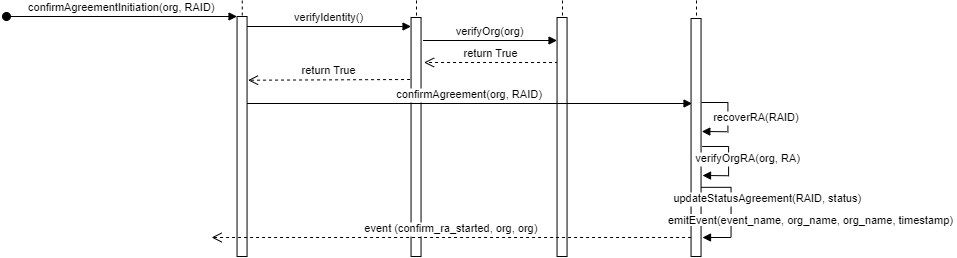
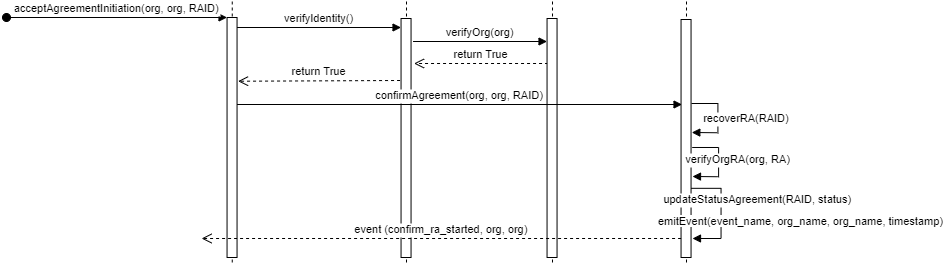
0.08.2021.9

Changed region(s): [[0.0, 0.0, 1.0, 1.0]]

diff --git a/chaincode/documentation/README.md b/chaincode/documentation/README.md
@@ -30,6 +30,9 @@
 <img src="https://github.com/sfl0r3nz05/NLP-DLT/blob/sentencelvl/chaincode/documentation/images/startAgreement2.png">
 
 ### Start Agreement Confirmation
+|Method                    | Event                  | State                 |
+|:------------------------:|:----------------------:|:---------------------:|
+|acceptAgreementInitiation |confirmation_ra_started |confirmation_ra_started|
 - For the roaming agreement drafting to be valid, the other MNO must confirm it.
 - Identity is verified.
 - The inputs are `json org` and `RAID`.
